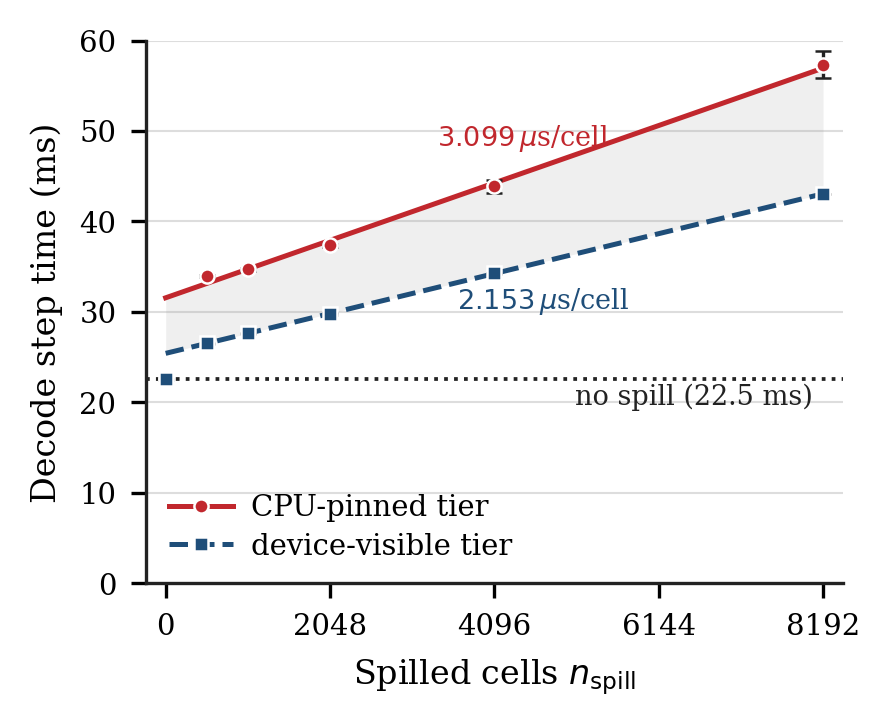
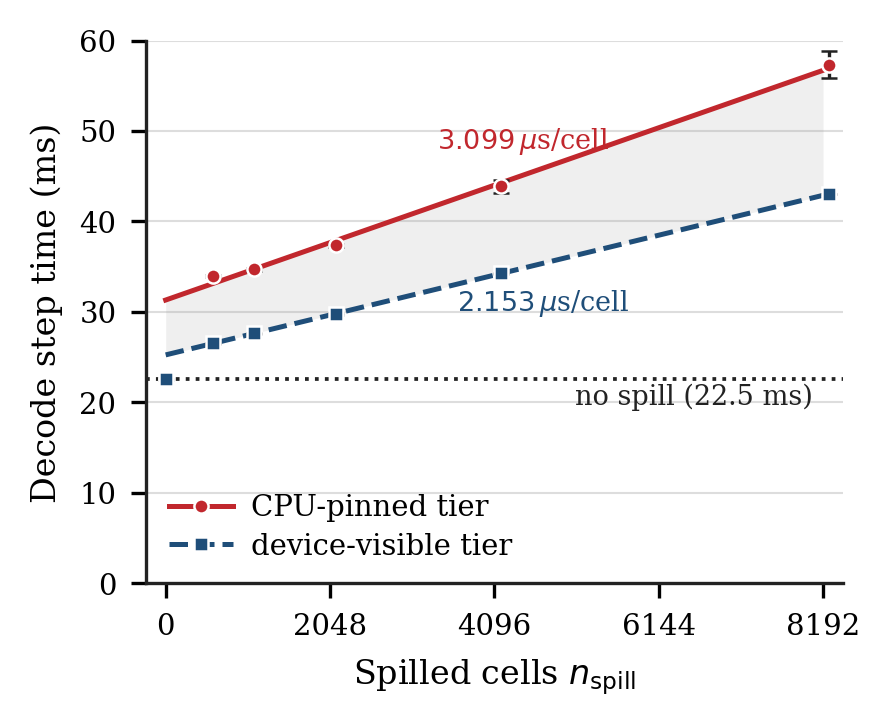
Regenerate Figure 1 against the measured regressor
A round-4 review found the figure was drawn from a superseded fit: its
locked constants were the target-regressor intercepts (31.563/25.423)
while the paper's equations use the measured-n_spill ones
(31.317/25.252), so caption and equations disagreed and the plotted
gamma was 9.009 where the text said 8.763.

make_fig5_recall_cost.py now fits n_spill_mean and plots each point at
its measured position, 79.5 cells right of its harness target. It
re-derives every locked constant from the CSV at build time and refuses
to plot on a mismatch, so figure and equations cannot drift apart again.

diff --git a/scripts/make_fig5_recall_cost.py b/scripts/make_fig5_recall_cost.py
@@ -46,8 +46,8 @@ TOL_FIT  = 0.002     # fitted coefficients
 # ---- LOCKED (B2 Block 1; figure conforms to these, not the reverse) --------
 # mode -> (intercept ms, slope us/cell, gamma ms)
 FITS = {
-    "cpu": (31.563, 3.0990, 9.009),
-    "dev": (25.423, 2.1531, 2.879),
+    "cpu": (31.317, 3.0990, 8.763),
+    "dev": (25.252, 2.1531, 2.708),
 }
 # mode -> {n_spill: (mean ms, sd ms)}
 POINTS = {
@@ -58,6 +58,7 @@ POINTS = {
 }
 NO_SPILL = 22.549    # the two references agree (t = -0.28); one shared line
 NMAX     = 8192
+OFFSET   = 79.5     # measured n_spill exceeds the harness target by this
 
 LABEL = {"cpu": "CPU-pinned tier", "dev": "device-visible tier"}
 DEVCOL = {"0": "cpu", "1": "dev"}
@@ -106,7 +107,7 @@ def verify():
             if abs(sd - sd_lock) > TOL_MS:
                 die(f"{SRC_CSV.name}: {mode} n={n} sd {sd:.3f}, locked {sd_lock}")
 
-        xs = [int(r["target"]) for r in rows
+        xs = [float(r["n_spill_mean"]) for r in rows
               if r["spill_dev"] == dev and int(r["target"]) > 0]
         ys = [float(r["ms_mean"]) for r in rows
               if r["spill_dev"] == dev and int(r["target"]) > 0]
@@ -162,9 +163,10 @@ def render():
     for mode in ("cpu", "dev"):
         a, b, _ = FITS[mode]
         ns = sorted(POINTS[mode])
+        px = [n + (OFFSET if n > 0 else 0.0) for n in ns]
         ax.plot(xs, line(mode), color=COLOR[mode], linewidth=1.2,
                 linestyle="-" if mode == "cpu" else "--", zorder=3)
-        ax.errorbar(ns, [POINTS[mode][n][0] for n in ns],
+        ax.errorbar(px, [POINTS[mode][n][0] for n in ns],
                     yerr=[POINTS[mode][n][1] for n in ns],
                     marker="o" if mode == "cpu" else "s", markersize=3.4,
                     color=COLOR[mode], markerfacecolor=COLOR[mode],

diff --git a/ARTIFACT.md b/ARTIFACT.md
@@ -52,7 +52,7 @@ trusted from the harness source; several analyses fail loudly if it disagrees.
 
 | Claim | Harness | Data | Analysis |
 |---|---|---|---|
-| Eq. (1)–(2), γ, δ, Fig. 1 | `run_b2_cooled.py`, `make_fig5_recall_cost.py` | `stress_results/b2_isochronal_both_modes.csv` | `b2_cooled/B2_analysis.txt`; fit spec in `b2_cooled/REGRESSION_SPEC.txt` |
+| Eq. (1)–(2), γ, δ, Fig. 1 | `run_b2_cooled.py`, `make_fig5_recall_cost.py` | `stress_results/b2_isochronal_both_modes.csv` | `b2_cooled/B2_analysis.txt`; fit spec — including why the fit regresses on measured `n_spill` rather than the harness target — in `b2_cooled/REGRESSION_SPEC.txt` |
 | Isochronal design; confounded long-run slope | `run_recall_cost_isochronal.py` | `stress_results/recall_cost_steps_A_p3_long.csv`, `recall_cost_isochronal.csv` | `recall_cost/recall_cost_analysis.txt` — the design and the confounded slope stand, but its γ and δ are superseded by the B2 row above |
 | Device-visible tier; counterbalanced A/B failure | `run_b1_ceiling.py`, `run_b1_interleaved.py` | `stress_results/b1_device_tier_ceiling.csv`, `b1_interleaved_ab.csv` | `b1_gpu_tier/B1_triage.txt`, `B1_verification_and_ceiling.txt` |
 | Retrieval + 32-token continuation (Table 2) | `run_quality_arms_unified.py` | `quality_results/quality_arms_unified.csv` | `quality_unified/quality_arms_analysis.txt` |
